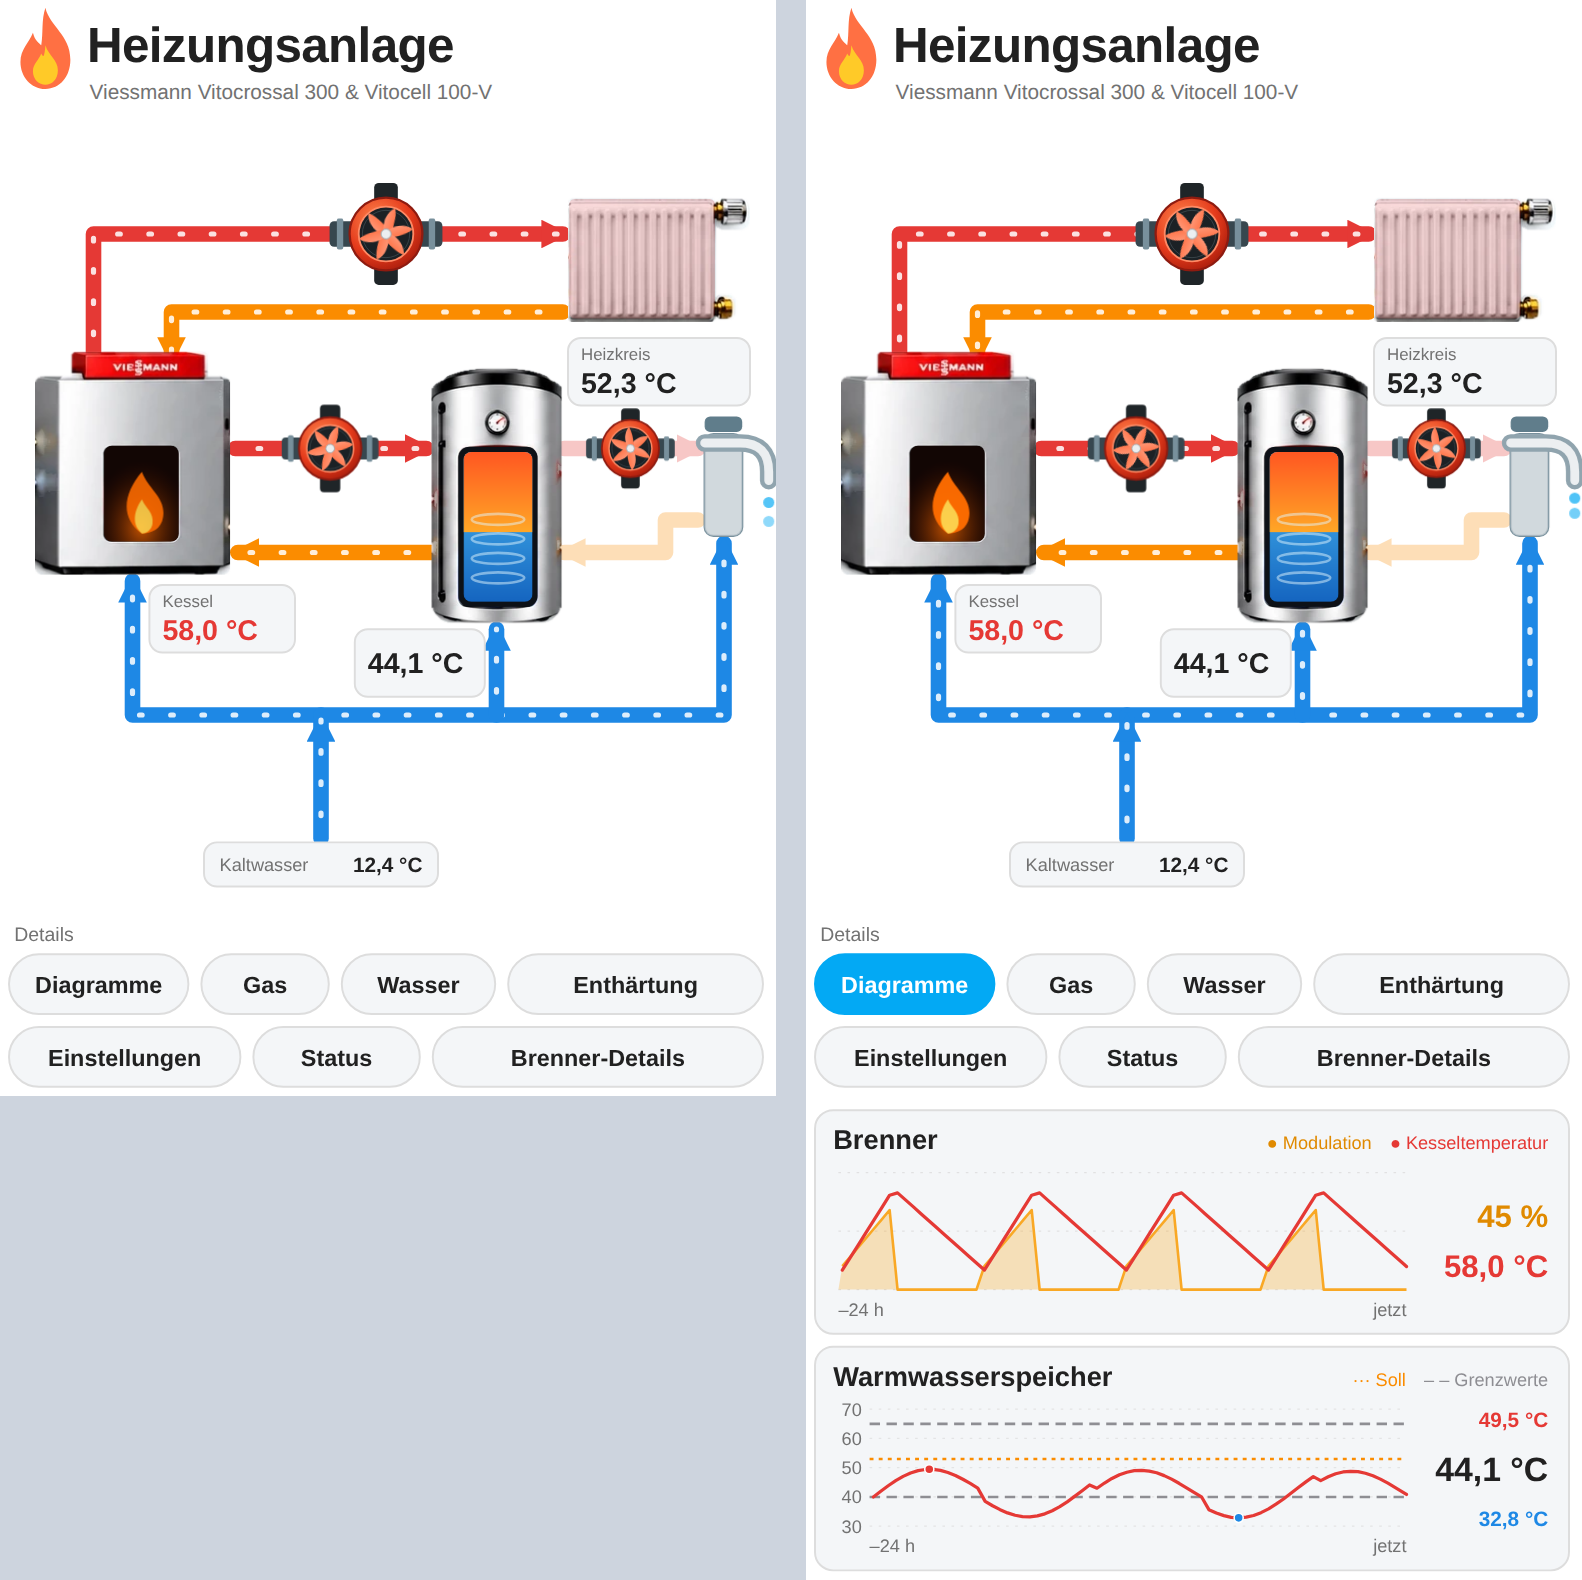
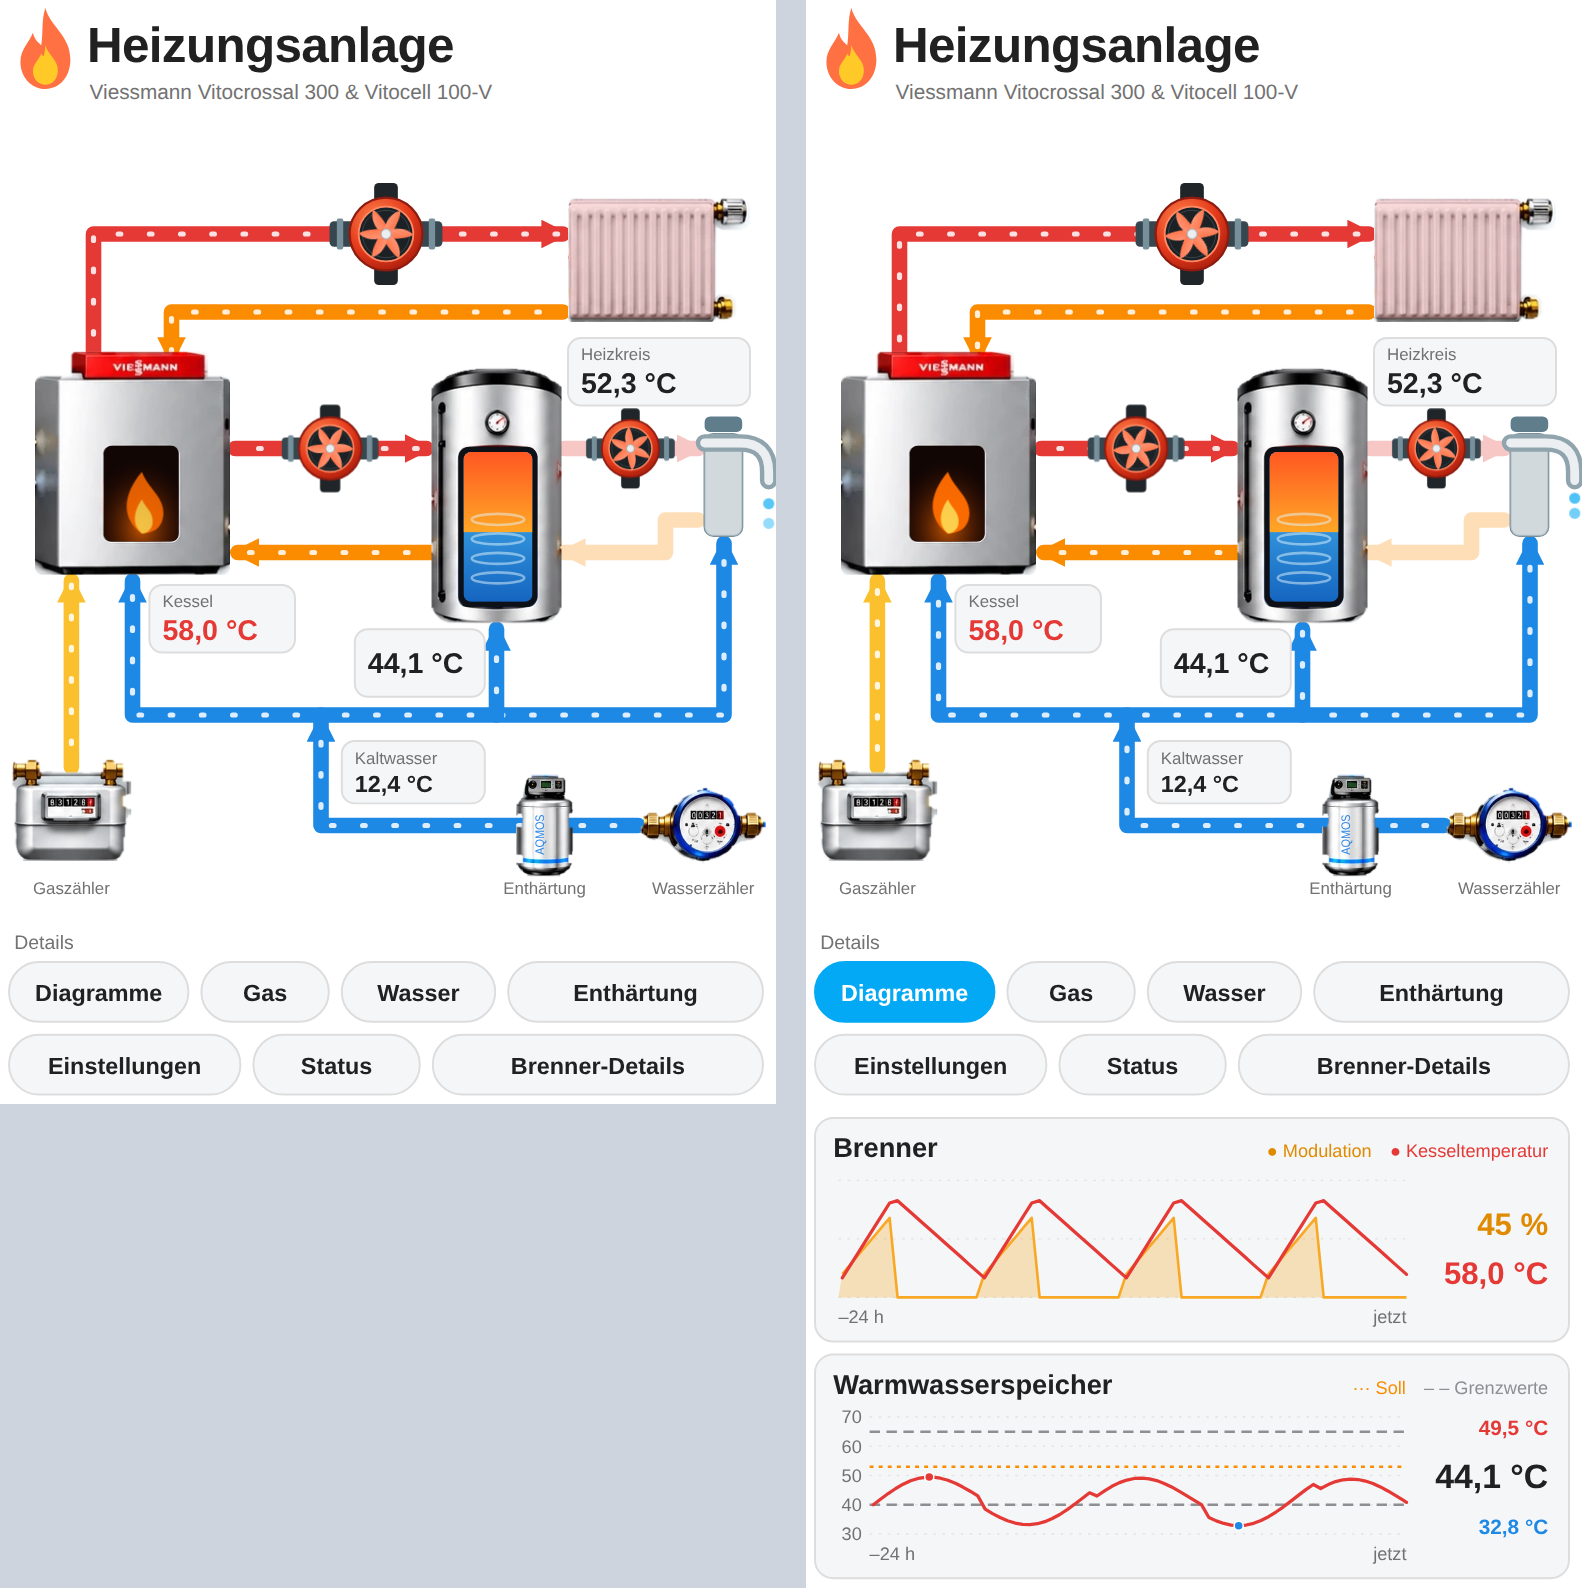
Kompakte Ansicht: Zähler und Enthärtung im Schema, Kaltwasser vom Wasserzähler über die Enthärtung (v3.2.0)
Claude-Session: https://claude.ai/code/session_01Fnuj4kHQyJopGXRgGAZu7u

diff --git a/dist/heizungsanlage-card.js b/dist/heizungsanlage-card.js
@@ -8,7 +8,7 @@
  *   card:      type: custom:heizungsanlage-card   (Einstellungen über den visuellen Editor)
  */
 
-const CARD_VERSION = '3.1.3';
+const CARD_VERSION = '3.2.0';
 
 // Geräte-Grafiken (freigestellt, eingebettet – keine externen Dateien nötig)
 const IMG = {
@@ -583,21 +583,29 @@ class HeizungsanlageCard extends HTMLElement {
     s += line('chg-f', 'M184,245 H331', 'red') + line('chg-r', 'M335,325 H186', 'orange');
     s += line('circ-f', 'M437,245 H540', 'red') + line('circ-r', 'M540,300 H515 V325 H437', 'orange');
     s += line('cold-b', 'M250,450 H105 V347', 'blue') + line('cold', 'M250,450 H560 V318', 'blue');
-    s += line('cold-t', 'M385,450 V384', 'blue') + line('cold-in', 'M250,545 V454', 'blue');
+    s += line('cold-t', 'M385,450 V384', 'blue') + line('cold-in', 'M494,535 H250 V454', 'blue');
+    s += line('gas', 'M58,490 V347', 'yellow');
     s += `<g class="clk" data-entity="${E.supply_temp || ''}">${img('rad', 440, 52, 140)}<rect id="rad-heat" x="441" y="53" width="112" height="92" rx="4" fill="#e53935" opacity="0"/></g>`;
     s += pump('heat', 300, 80, 0.7, E.heating_pump) + pump('chg', 257, 245, 0.6, E.charge_pump) + pump('circ', 488, 245, 0.55, E.dhw_circ_pump);
     s += boiler(30, 170, 150) + tank(335, 183, 100) + tap(540, 245, 0.85);
+    s += `<g class="clk" data-topic="gas">${img('gas', 12, 484, 92)}
+      <text class="s" x="58" y="588" text-anchor="middle" style="font-size:13px">Gaszähler</text></g>`;
+    s += `<g class="clk" data-topic="softener">${img('soft', 400, 496, 44)}
+      <text x="419" y="542" transform="rotate(-90 419 542)" text-anchor="middle" dominant-baseline="central" textLength="31" lengthAdjust="spacingAndGlyphs" style="font-size:9.6px;font-weight:500;fill:#2f86e6;pointer-events:none">AQMOS</text>
+      <text class="s" x="422" y="588" text-anchor="middle" style="font-size:13px">Enthärtung</text></g>`;
+    s += `<g class="clk" data-topic="water">${img('wm', 496, 506, 96)}
+      <text class="s" x="544" y="588" text-anchor="middle" style="font-size:13px">Wasserzähler</text></g>`;
     s += valChip(440, 160, 140, 'Heizkreis', 'v-supply', E.supply_temp);
     s += valChip(118, 350, 112, 'Kessel', 'v-boiler', E.boiler_temp, '#e53935');
     s += valChip(276, 384, 100, '', 'v-tank', E.tank_temp);
     s += `<g class="clk" data-entity="${E.water_temp || ''}">
-      <rect class="box" x="160" y="548" width="180" height="34" rx="10"/>
-      <text class="s" x="172" y="570" style="font-size:14px">Kaltwasser</text>
-      <text class="v" id="v-cold" x="328" y="571" text-anchor="end" style="font-size:16px">–</text></g>`;
+      <rect class="box" x="266" y="470" width="110" height="48" rx="10"/>
+      <text class="s" x="276" y="488" style="font-size:13px">Kaltwasser</text>
+      <text class="v" id="v-cold" x="276" y="509" style="font-size:18px">–</text></g>`;
     s += '</g>';
 
     // ---- Detail-Schaltflächen ----
-    const by = 730;
+    const by = 736;
     const topics = {
       diagrams: ['Diagramme', 10, by + 4, 138],
       gas: ['Gas', 158, by + 4, 98],

diff --git a/tools/test_editor.py b/tools/test_editor.py
@@ -50,7 +50,8 @@ LAYOUT_JS = """
   return {
     cls: r.querySelector('svg').getAttribute('class'),
     ids: ['boiler', 'tank-hot', 'pm-heat', 'pm-chg', 'pm-circ', 'ln-heat-f', 'ln-cold', 'flame', 'v-supply', 'v-tank', 'v-cold'].filter((i) => !has(i)),
-    topics: r.querySelectorAll('[data-topic]').length,
+    topics: r.querySelectorAll('.btn[data-topic]').length,
+    meters: r.querySelectorAll('g[data-topic]:not(.btn)').length,
     heizkreis: r.textContent.includes('Heizkreis'),
     burnerOn: r.getElementById('boiler').classList.contains('on'),
   };
@@ -103,6 +104,7 @@ def main():
             check(f"{tag}: 'Heizkreis' statt 'Vorlauf'", res["heizkreis"])
             if cls == "narrow":
                 check(f"{tag}: 7 Detail-Schaltflächen", res["topics"] == 7)
+                check(f"{tag}: 3 Zähler/Geräte im Schema antippbar", res["meters"] == 3)
             pg2.close()
         check("Keine JavaScript-Fehler im Browser", not errs)
         if errs:

diff --git a/CONTEXT.md b/CONTEXT.md
@@ -89,6 +89,10 @@ Genutzt wird die Karte vor allem auf dem **Handy** und einem **7"-Raspberry-Disp
 Für schmale Bildschirme wurde **Variante 3 „reduziert"** gewählt: Kerngeräte mit großen Zahlen
 (Heizkreis, Kessel, Speicher, Kaltwasser), alle Details hinter Schaltflächen (Akkordeon, immer nur ein Bereich
 offen): Diagramme, Gas, Wasser, Enthärtung, Einstellungen, Status, Brenner-Details.
+Im kompakten Schema stehen auch die Zähler: **Gaszähler links unten** (gelbe Leitung senkrecht in den Kessel),
+**Wasserzähler rechts unten**, die **Enthärtungsanlage links neben dem Wasserzähler**. Das Wasser läuft vom
+Wasserzähler über die Enthärtung zum bisherigen Kaltwassereingang (x=250, Knoten der Kaltwasserleitung) in das
+bestehende Schema. Ein Tipp auf einen Zähler öffnet den passenden Detailbereich.
 Im Bereich „Diagramme" haben beide Diagramme Überschriften mit kleiner Legende: „Brenner" (Modulation, Kesseltemperatur) und
 „Warmwasserspeicher" (Soll, Grenzwerte).
 Umschaltung automatisch bei < 700 px Breite oder fest über `layout: wide | compact`.

diff --git a/README.md b/README.md
@@ -62,7 +62,8 @@ Die Karte wählt ihr Layout nach der verfügbaren Breite (Einstellung **Layout**
 - **Breit** (ab ca. 700 px, z. B. Tablet oder Desktop): vollständiges Schema mit allen Geräten,
   Diagrammen, Datenboxen und der unteren Leiste.
 - **Kompakt** (unter ca. 700 px, z. B. Handy oder 7"-Display im Hochformat): Kerngeräte mit großen Zahlen
-  (Heizkreis, Kessel, Speicher, Kaltwasser). Alle weiteren Werte stehen hinter Schaltflächen:
+  (Heizkreis, Kessel, Speicher, Kaltwasser) sowie Gaszähler (links unten), Wasserzähler (rechts unten) und
+  Enthärtungsanlage im Schema. Ein Tipp auf ein Gerät öffnet den passenden Bereich darunter. Alle weiteren Werte stehen hinter Schaltflächen:
   *Diagramme*, *Gas*, *Wasser*, *Enthärtung*, *Einstellungen*, *Status* und *Brenner-Details*.
   Ein Tipp klappt den jeweiligen Bereich unter den Schaltflächen auf, ein zweiter Tipp schließt ihn.
 
